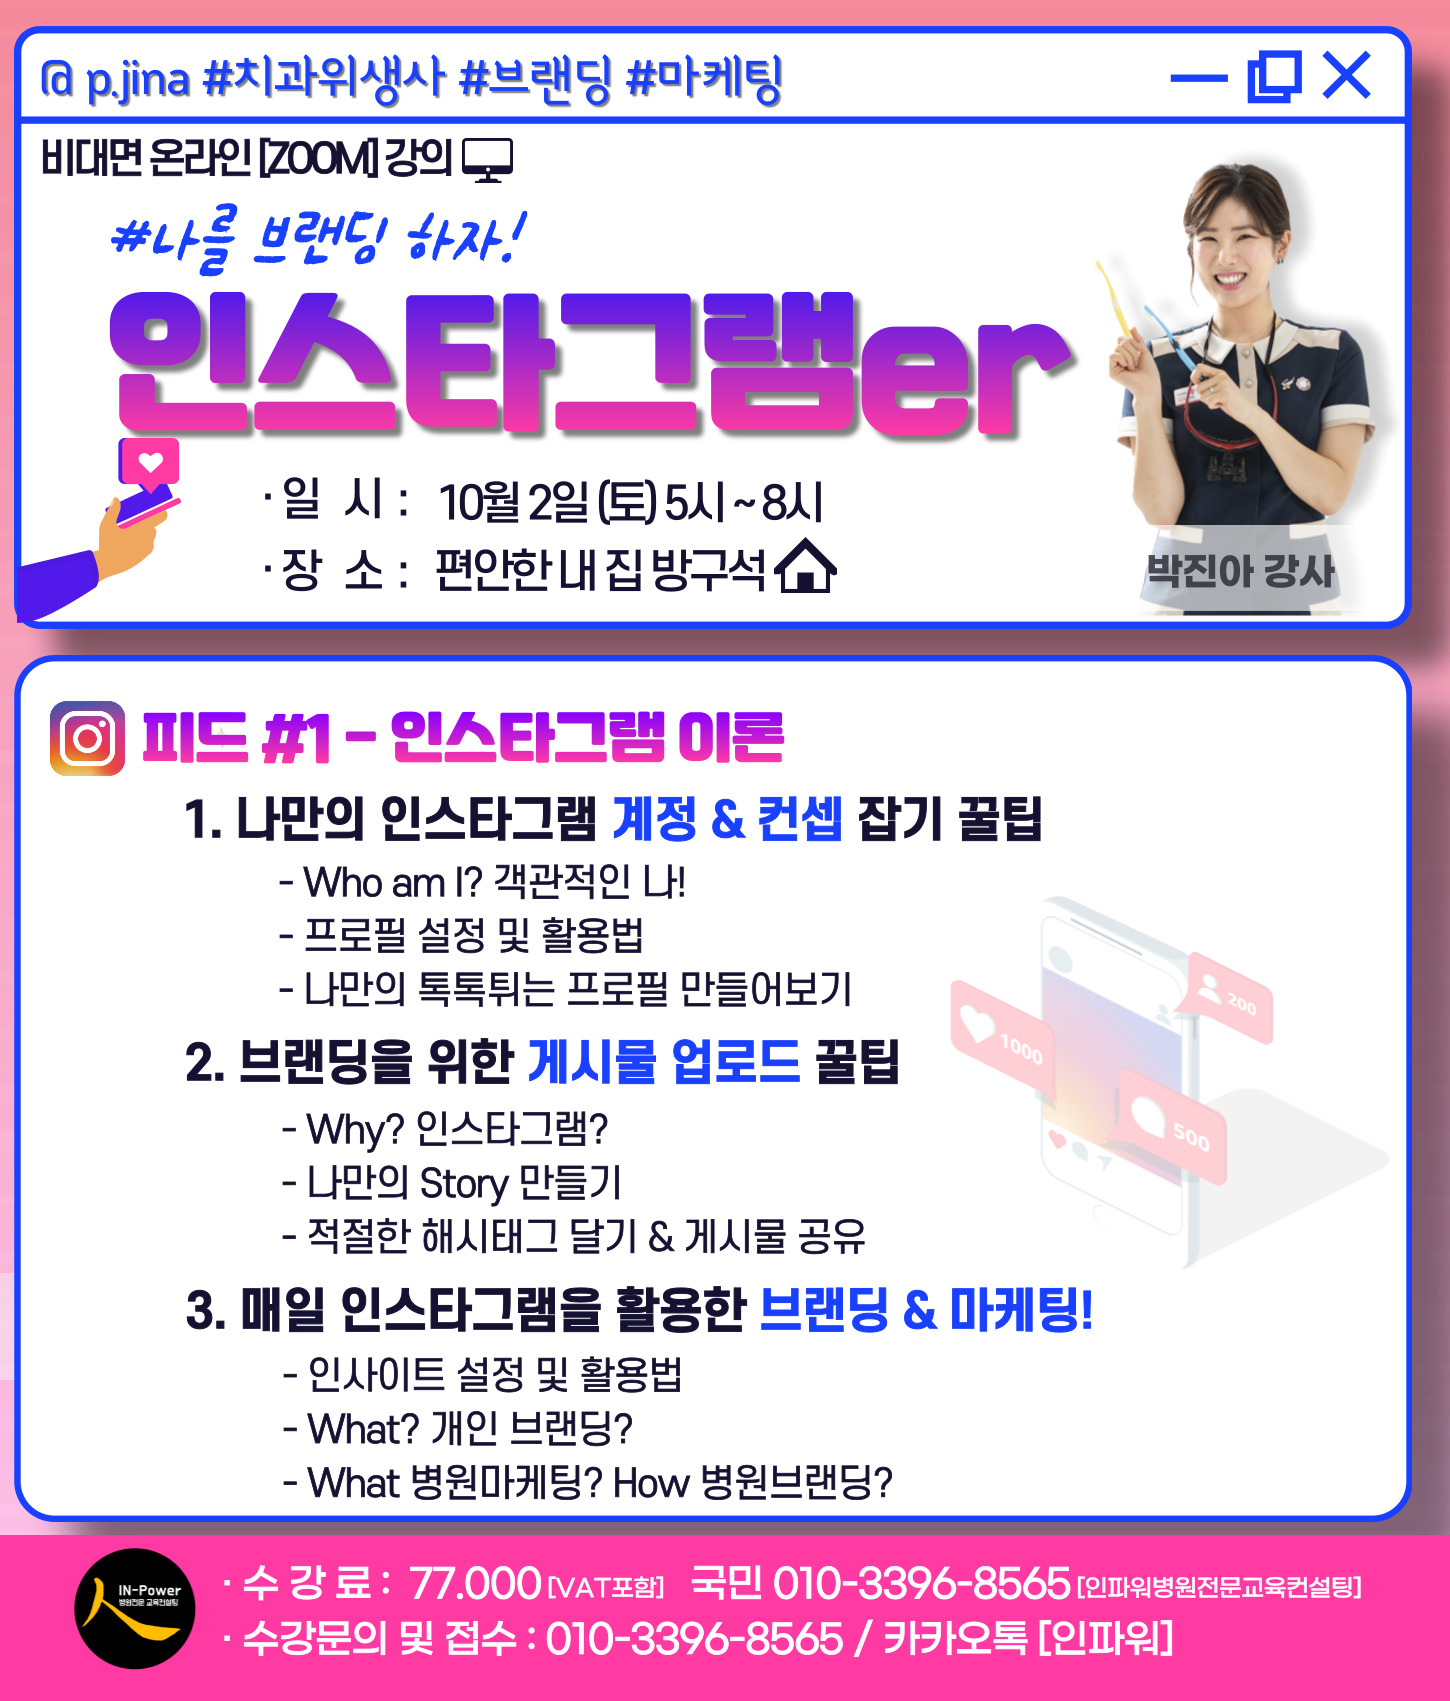
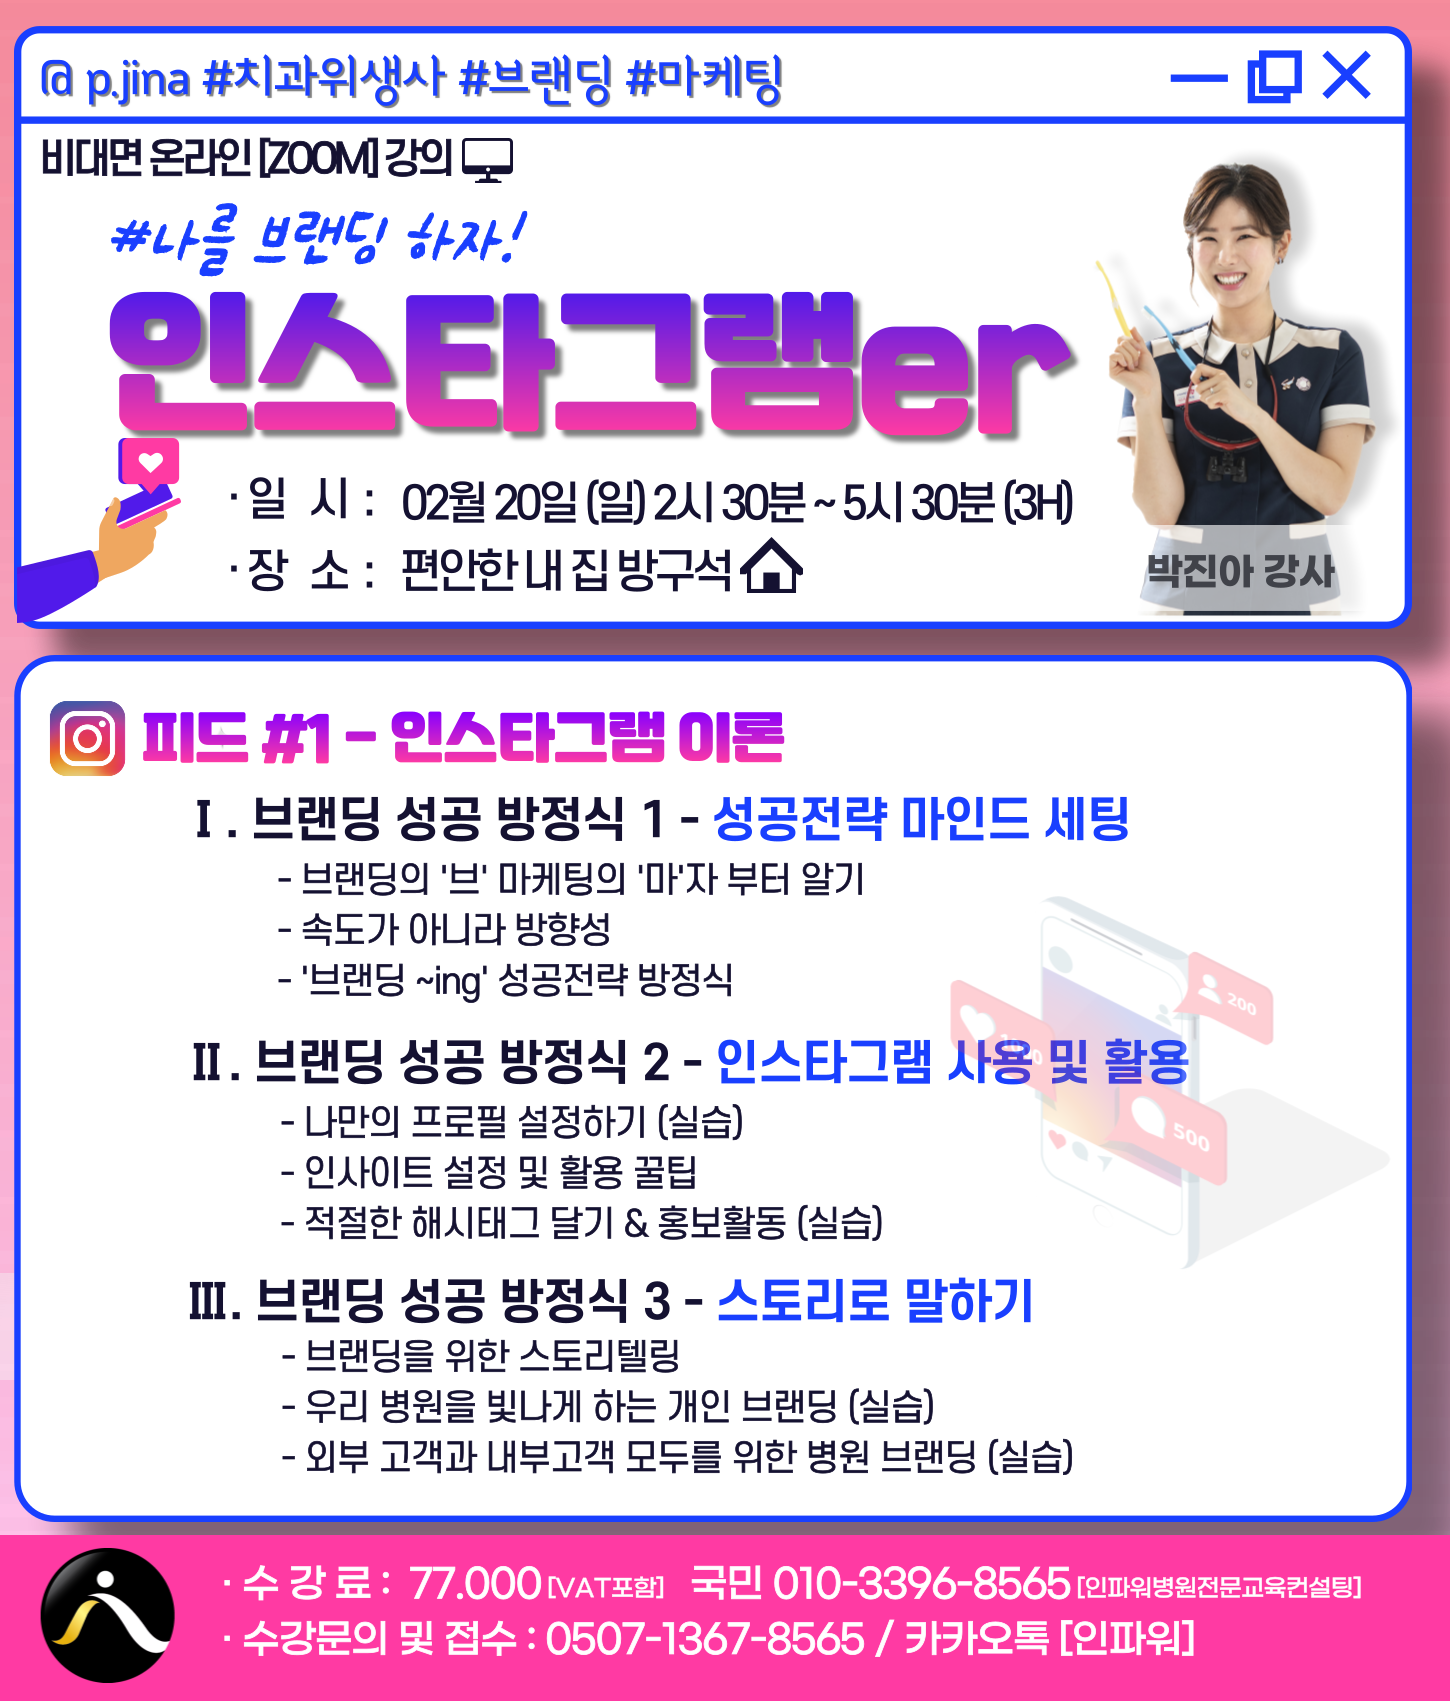
poster updated

diff --git a/index.html b/index.html
@@ -166,6 +166,7 @@
         </div>
         <div class="seminar__description">
           <span class="seminar__title">[브랜딩세미나 - 이런 분들께 추천드립니다!]</span>
+          <p class="notification">*2022년 2월 20일 NEW세미나가 업데이트 되었습니다!</p>
           <ul>
             <li>- SNS계정을 업무적으로 활용하고 싶은 분</li>
           <li>- 브랜딩 및 마케팅 업무에 관심있는 분</li>
@@ -187,6 +188,7 @@
         </div>
         <div class="seminar__description">
           <span class="seminar__title">[예방세미나 - 이런 분들께 추천드립니다!]</span>
+          <p class="notification">2022년 예방세미나는 3월 중순 업데이트 예정입니다. 기다려주세요!💞</p>
           <ul>
           <li>- 치과위생사의 예방업무에 관심있는 분
           </li>
@@ -201,17 +203,17 @@
       </div> 
 
     </div>
-    <div class="seminar__schedule posters">
+    <!-- <div class="seminar__schedule posters">
       <div class="seminar__poster">
         <img  class="jsToModal" src="./image/seminar3.jpg" data-index="6">
       </div>
       <div class="seminar__poster">
         <img  class="jsToModal" src="./image/seminar4.jpg" data-index="7">
       </div>
-    </div>
-    <div class="text-box">
+    </div> -->
+    <!-- <div class="text-box">
       <p>2021년 세미나는 종료되었습니다. 알찬 2022년 일정을 준비 중이오니 기다려주세요, 기대해주세요! :-)💗</p>
-    </div>
+    </div> -->
     </section>
 
     <hr />

diff --git a/css/style.css b/css/style.css
@@ -58,6 +58,14 @@ h2::before {
   pointer-events: none;
 }
 
+.notification {
+  color: crimson;
+  text-decoration: dashed;
+  font-size: 0.7rem;
+  font-weight: bolder;
+  margin-top: 0.3rem;
+}
+
 .h2-container {
   border: 1px solid black;
   margin: 1.5em 1em;
